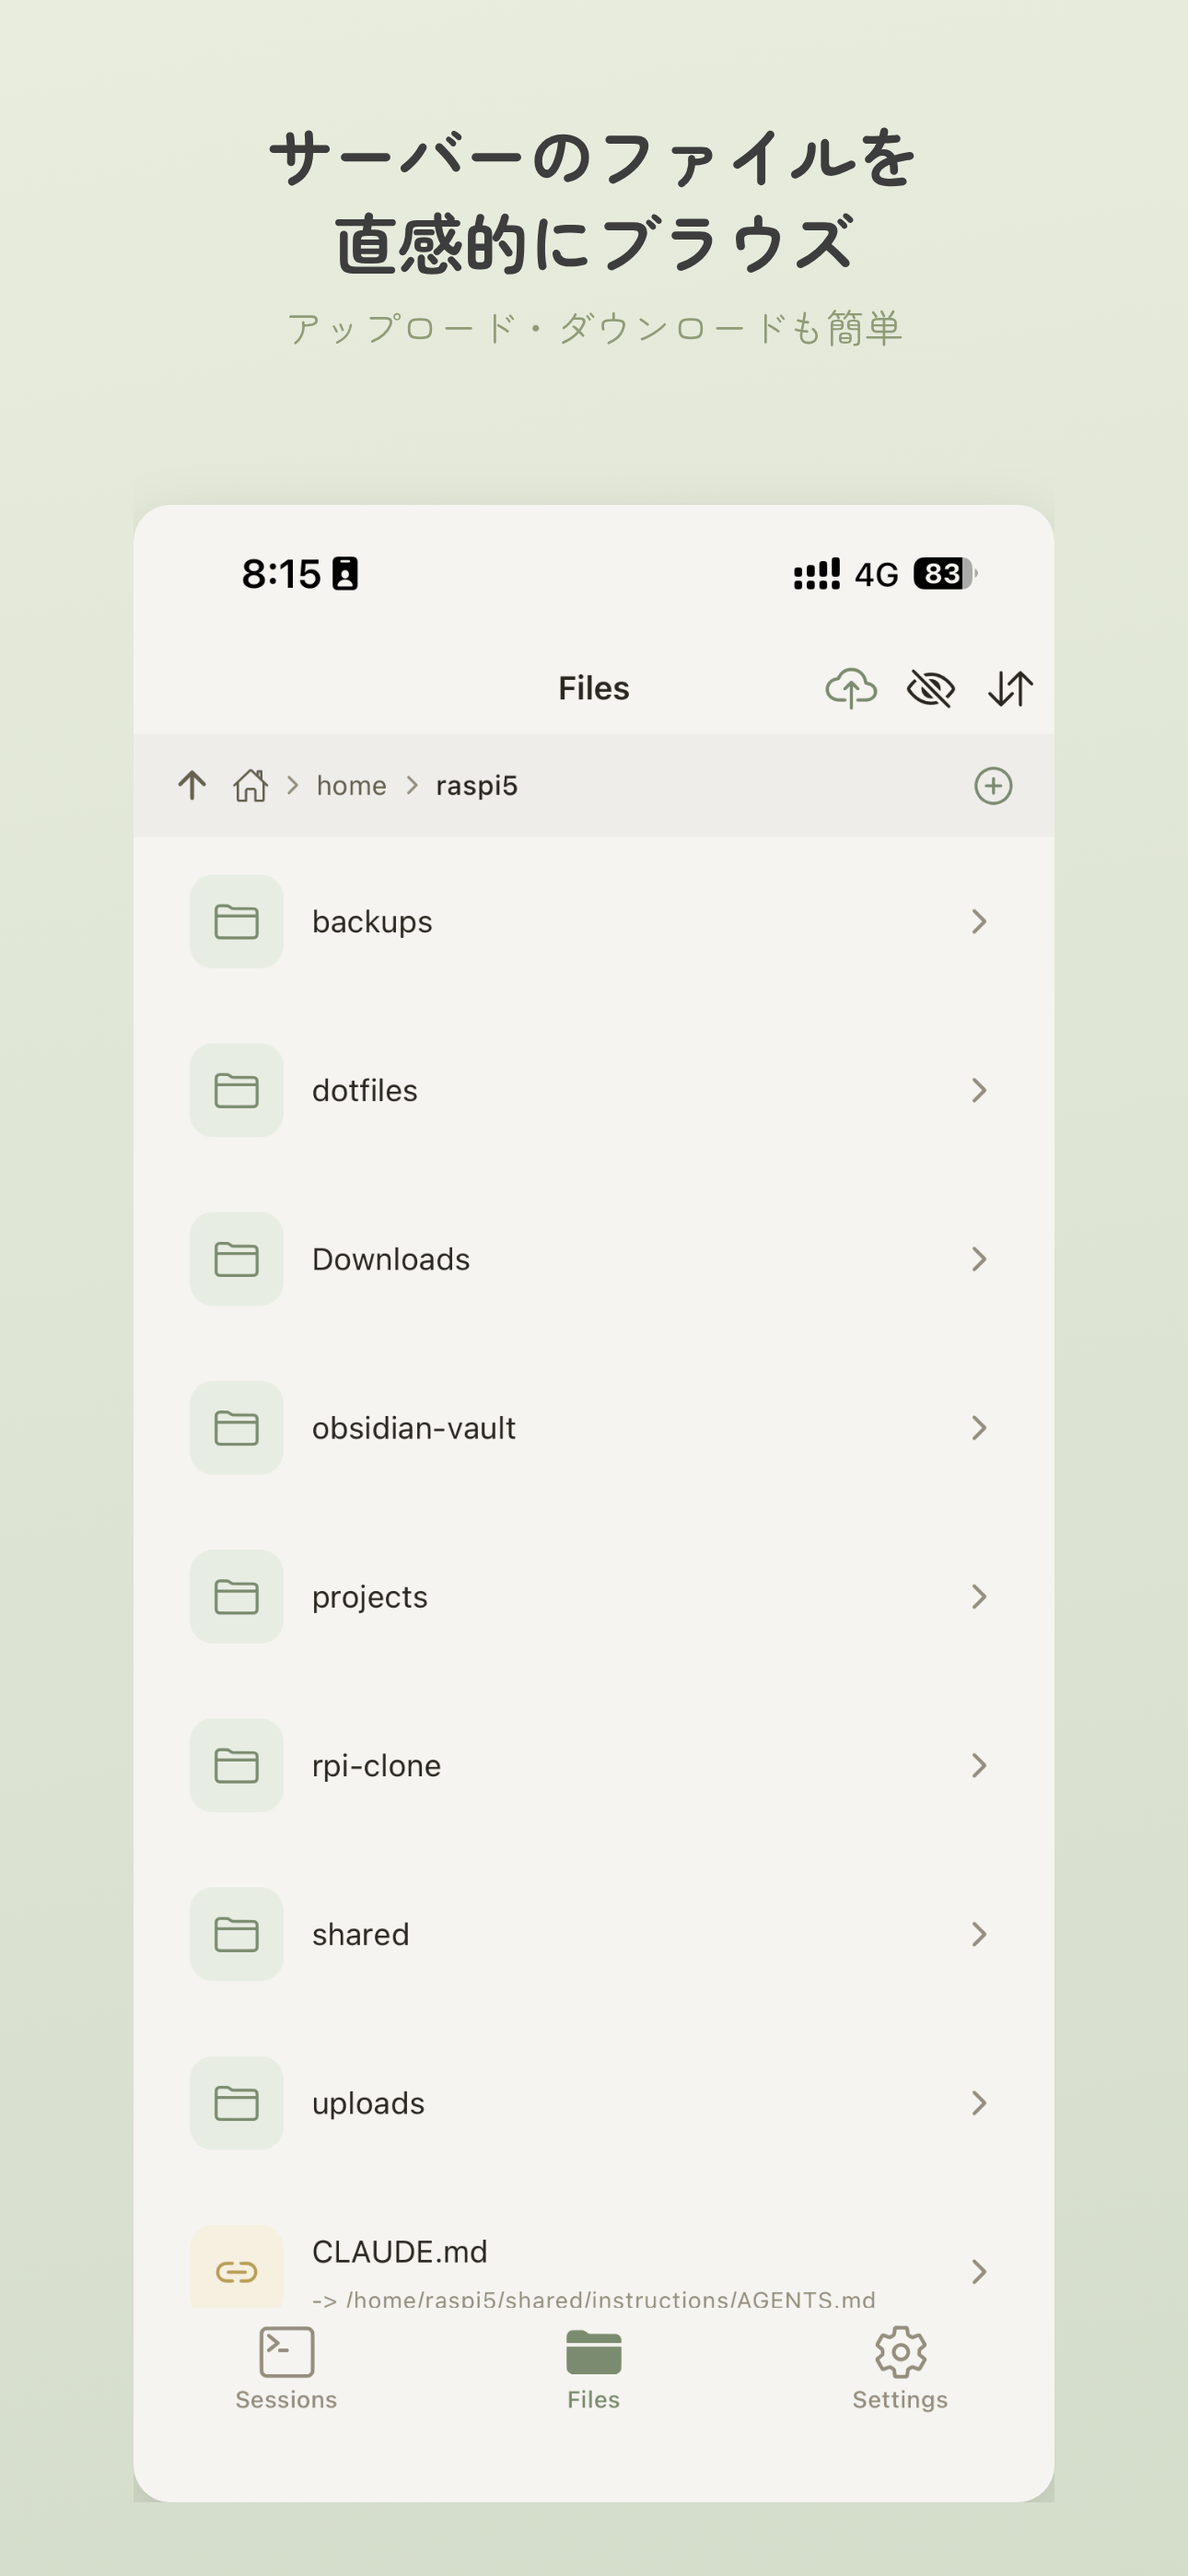
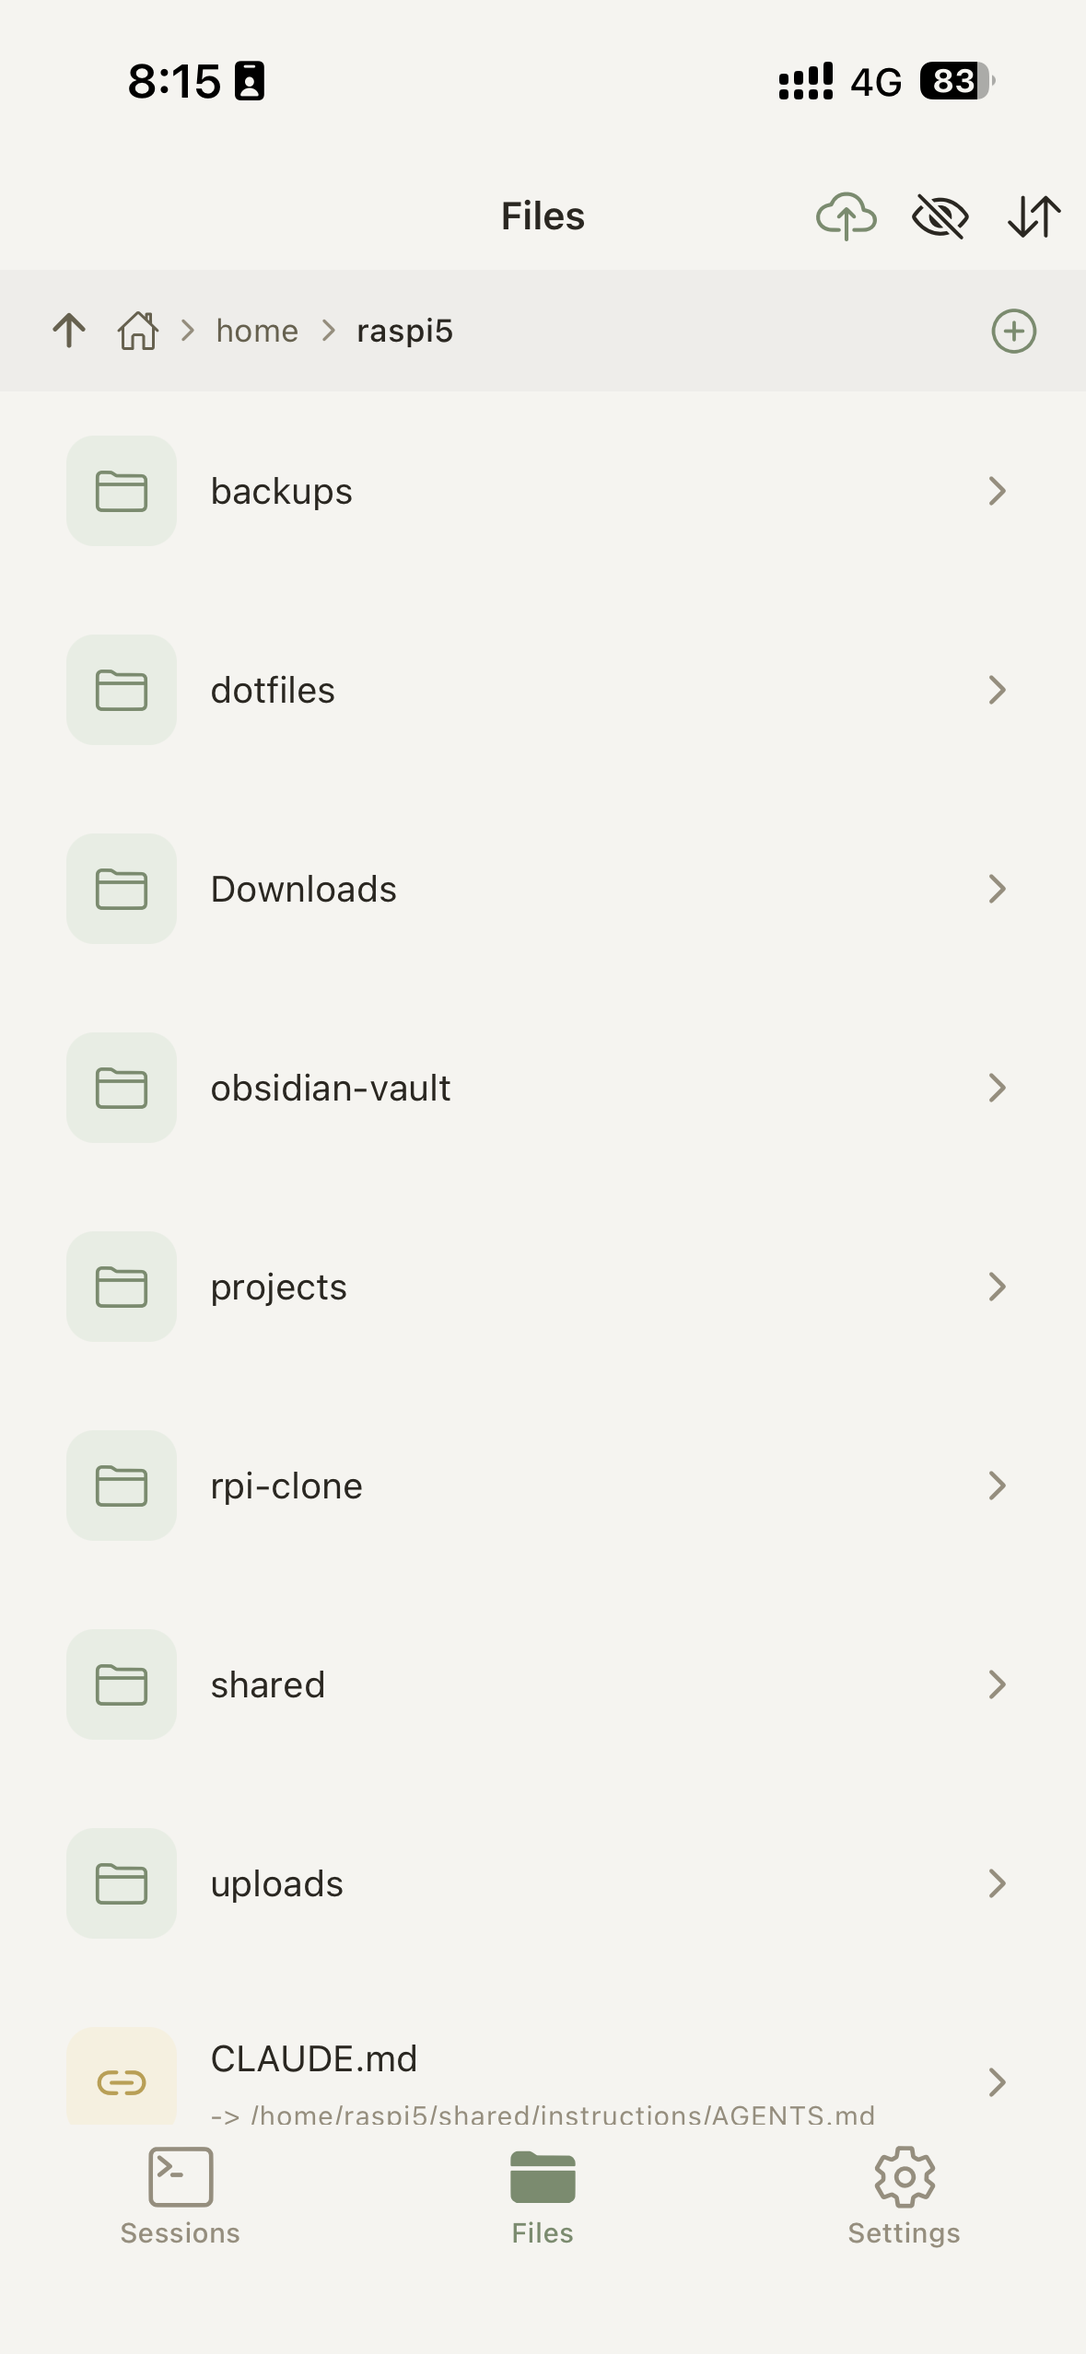
docs: スクリーンショットを純粋なアプリ画面に差し替え
App Store用マーケティングテキスト合成版から、
アプリ画面そのもののスクリーンショットに置き換え。

- 01-sessions: セッション一覧（ライト）
- 02-terminal: ターミナル（ライト）
- 03-terminal-dark: ターミナル（ダーク）
- 04-files: ファイルブラウザ
- 05-setup: セットアップガイド

diff --git a/docs/index.html b/docs/index.html
@@ -946,7 +946,7 @@
       <div class="phone-wrap aos" data-d="1" role="listitem">
         <div class="phone-frame">
           <div class="phone-screen">
-            <img src="lp/screenshots/02-sessions.png" alt="セッション一覧：複数のtmuxセッションを管理" loading="lazy" width="258" height="558">
+            <img src="lp/screenshots/01-sessions.png" alt="セッション一覧：複数のtmuxセッションを管理" loading="lazy" width="258" height="558">
           </div>
         </div>
         <div class="phone-cap">
@@ -958,7 +958,7 @@
       <div class="phone-wrap feat aos" data-d="2" role="listitem">
         <div class="phone-frame">
           <div class="phone-screen">
-            <img src="lp/screenshots/01-terminal.png" alt="フルスクリーンターミナル：Claude Codeとの対話" loading="lazy" width="258" height="558">
+            <img src="lp/screenshots/02-terminal.png" alt="フルスクリーンターミナル" loading="lazy" width="258" height="558">
           </div>
         </div>
         <div class="phone-cap">
@@ -970,19 +970,19 @@
       <div class="phone-wrap aos" data-d="3" role="listitem">
         <div class="phone-frame">
           <div class="phone-screen">
-            <img src="lp/screenshots/03-setup.png" alt="セットアップ：3ステップでQR接続" loading="lazy" width="258" height="558">
+            <img src="lp/screenshots/03-terminal-dark.png" alt="ターミナル：ダークテーマ" loading="lazy" width="258" height="558">
           </div>
         </div>
         <div class="phone-cap">
-          <div class="phone-cap-ja">かんたん設定</div>
-          <div class="phone-cap-en">3-Step Setup</div>
+          <div class="phone-cap-ja">ダークテーマ</div>
+          <div class="phone-cap-en">Dark Theme</div>
         </div>
       </div>
 
       <div class="phone-wrap aos" data-d="4" role="listitem">
         <div class="phone-frame">
           <div class="phone-screen">
-            <img src="lp/screenshots/04-files.png" alt="ファイルブラウザ：リモートファイルを直感的に管理" loading="lazy" width="258" height="558">
+            <img src="lp/screenshots/04-files.png" alt="ファイルブラウザ" loading="lazy" width="258" height="558">
           </div>
         </div>
         <div class="phone-cap">
@@ -994,12 +994,12 @@
       <div class="phone-wrap aos" data-d="5" role="listitem">
         <div class="phone-frame">
           <div class="phone-screen">
-            <img src="lp/screenshots/05-dark-theme.png" alt="ダークテーマ：目に優しい暗いUI" loading="lazy" width="258" height="558">
+            <img src="lp/screenshots/05-setup.png" alt="セットアップガイド" loading="lazy" width="258" height="558">
           </div>
         </div>
         <div class="phone-cap">
-          <div class="phone-cap-ja">ダークテーマ</div>
-          <div class="phone-cap-en">Dark &amp; Light</div>
+          <div class="phone-cap-ja">かんたん設定</div>
+          <div class="phone-cap-en">3-Step Setup</div>
         </div>
       </div>
 
